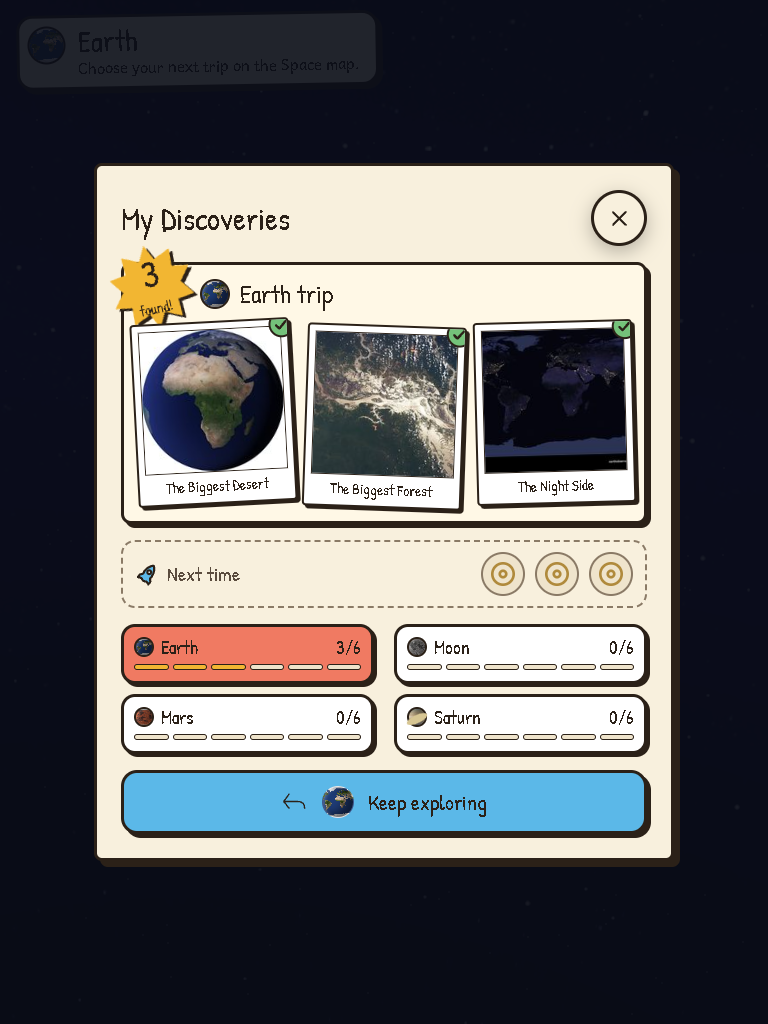
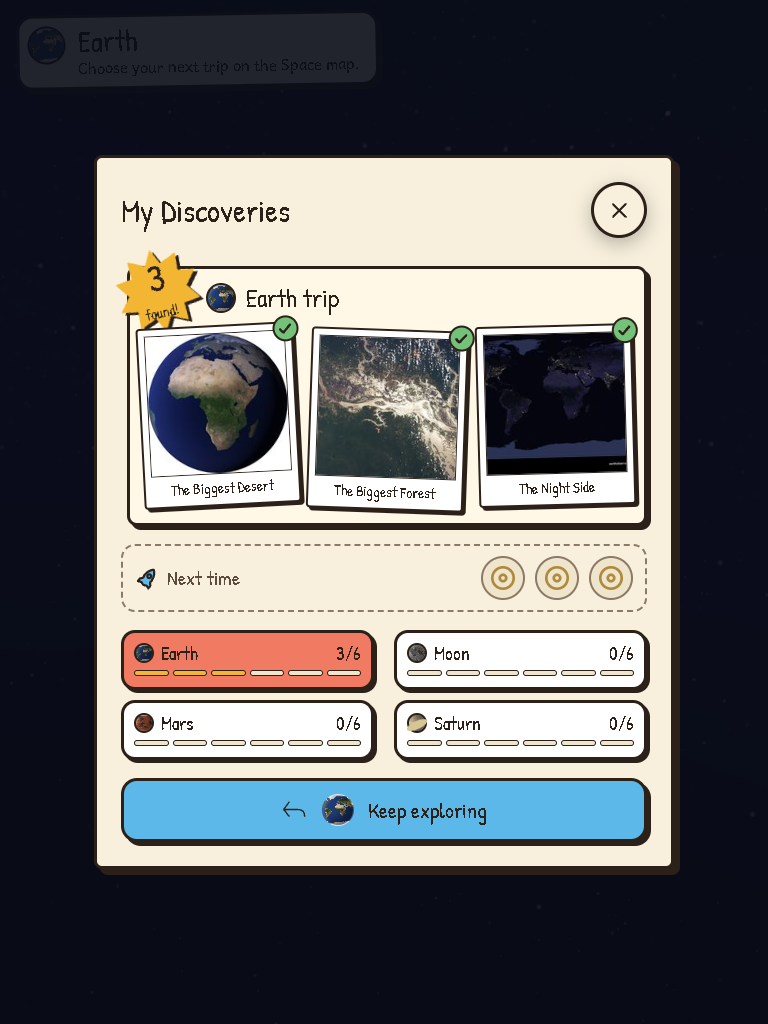
Review page: real after-shots from the implementation

Changed region(s): [[0.125, 0.125, 0.875, 0.875]]

diff --git a/design/done-visible/index.html b/design/done-visible/index.html
@@ -43,7 +43,7 @@ code { font-size: .92em; }
   <header>
     <h1>Done, made visible</h1>
     <p>Fix 5 from the state-change audit. "Done" comes at three sizes: a visit (three places), a world (all six) and the whole game. None of them shows well today. A finished visit opens a journal that is half dashed "Still to find" tiles, and once every world is visited the map sends the child back to a finished world with the same gold card a brand-new world gets.</p>
-    <p>These are design mocks: the real build, captured at each state, then the same screen with a mock stylesheet and script laid over it (<code>design/done-visible/mock.css</code>, <code>mock.js</code>). Nothing in the game has changed yet.</p>
+    <p>Built. "Before" is main before the change; "after" is branch <code>claude/done-visible-550f08</code>, both captured from the real game by <code>e2e/done-visible-capture.pw.ts</code>. The design was approved from a mock laid over the build; the after shots now come from the implementation itself.</p>
     <div class="legend">
       <span><span class="chip sun">3 found!</span> <b>trip sticker</b>: this visit is finished</span>
       <span><span class="chip grass">✓</span> <b>tick</b>: found / been there (the map's tick)</span>
@@ -73,10 +73,11 @@ code { font-size: .92em; }
   </section>
 
   <section class="state">
-    <h2>Notes for building it</h2>
+    <h2>Notes</h2>
     <ul>
-      <li>The trip layout appears only when the journal opens on a visit whose three places are all found. Opened any other time (from the map, mid-hunt) the page keeps found photos first and the "Next time" strip in place of dashed tiles, without the sticker.</li>
-      <li>"This trip" is the visit's own three finds (the mission already knows them), not the last three in storage.</li>
+      <li>The trip layout appears only when the journal opens on the page of a visit whose places are all found. Any other page (another world, or opened from the map) lists the found photos, then the "Next time" strip in place of dashed tiles, without the sticker.</li>
+      <li>"This trip" is the visit's own finds, in the order the child found them, not the last three in storage.</li>
+      <li>Short landscape: the dots are 9 px with a smaller world picture so the 67 px card still holds them; a Playwright check keeps them inside the card at every viewport.</li>
       <li>A world with all six found shows its six photos and no strip; the sun star replaces the count on its chip and the tick on its map card.</li>
       <li>Crayons: sun for the trip sticker, the star and found pips; grass for the photo ticks (the same "done" tick as the map). Both added to the AGENTS.md table on implementation.</li>
       <li>Owner review: dots bigger on phone. They are now 11 px (10 px on tablet) with a 26 px world picture, so the phone card keeps its 76 px height.</li>
